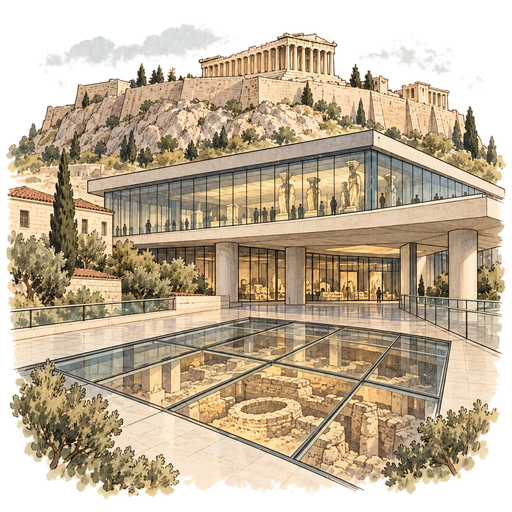
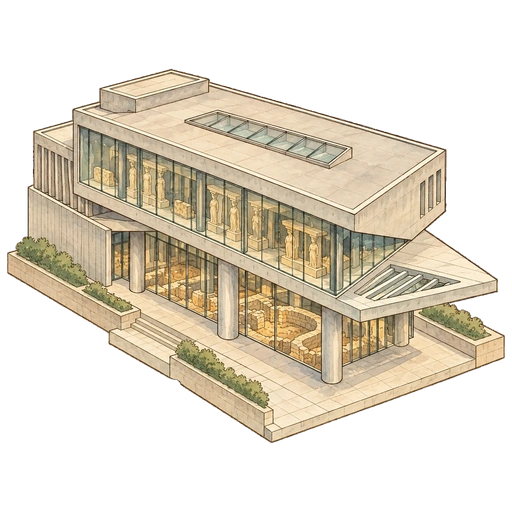
Korjaa Ateenan kolme nahtavyysminiatyyria (v2335)

diff --git a/js/muutokset.js b/js/muutokset.js
@@ -13,6 +13,7 @@
  * Vanhat rivit eivät muutu — loki on historia, ei kuvaus nykytilasta.
  */
 export const MUUTOKSET = [
+  { v: 2335, teksti: 'Ateenan kolme miniatyyria yhtenaiseen tyyliin' },
   { v: 2334, teksti: 'v2333: Vilna, Sarajevo, Odessa, Amsterdam, Tall… (#3429)' },
   { v: 2333, teksti: 'v2333: Livian avausesittely kerran, uusilla mat… (#3431)' },
   { v: 2332, teksti: 'v2331: Rahattomuuspalkki — jäljellä oleva aika… (#3421)' },

diff --git a/js/main.js b/js/main.js
@@ -165,7 +165,7 @@ natiiviSeuraa(STAMP_KEY);
 // Vanha maailma korvattiin maailmankartalla; tallennukset siirretään.
 const VANHA_LAUTA = 'vanhamaailma';
 const UUSI_LAUTA = 'maailmankartta';
-const APP_VERSION = '2026-09-21.2334';
+const APP_VERSION = '2026-09-21.2335';
 
 const rulesDialog = document.getElementById('rules-dialog');
 const winnerDialog = document.getElementById('winner-dialog');

diff --git a/sw.js b/sw.js
@@ -1,5 +1,5 @@
 // Palvelutyöntekijä: pelin tiedostot välimuistiin, jotta sovellus toimii myös offline.
-const CACHE = 'matkakirja-2026-09-21.2334';
+const CACHE = 'matkakirja-2026-09-21.2335';
 const SHELL = [
   './',
   './index.html',
